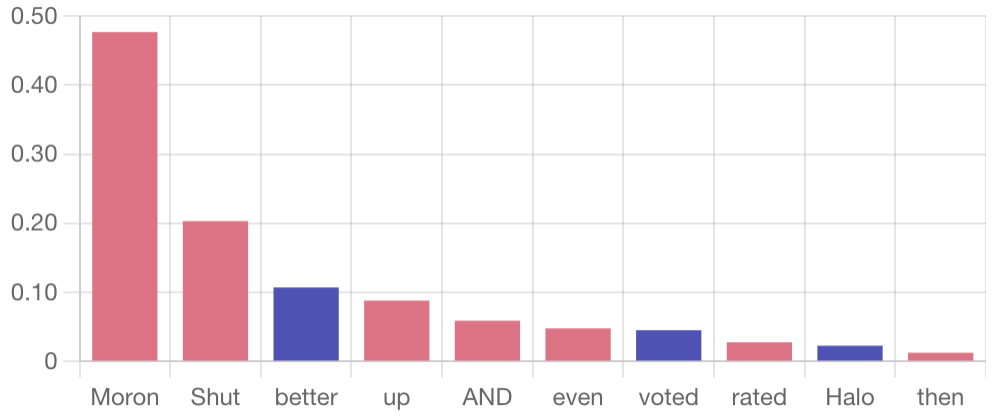
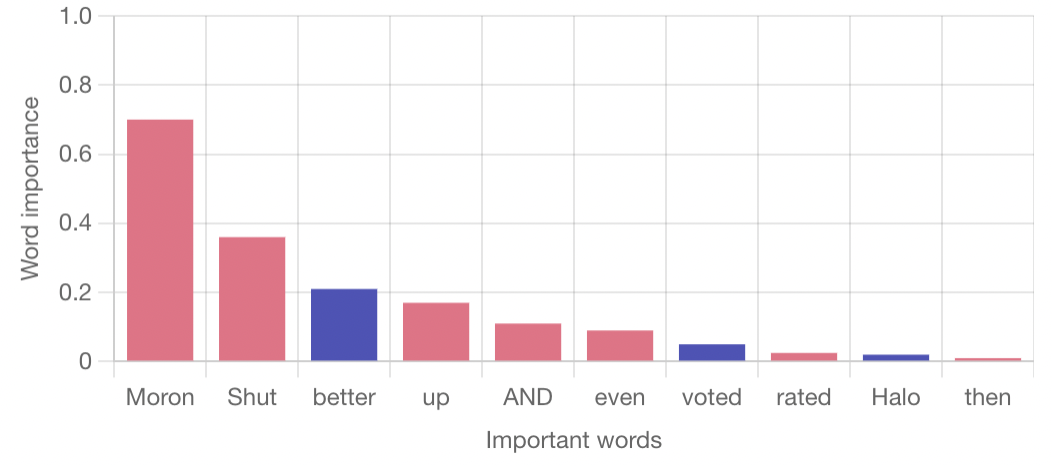
Imporved instructions throughout prototype

diff --git a/frontend/src/pages/TaskIntroduction.js b/frontend/src/pages/TaskIntroduction.js
@@ -17,7 +17,7 @@ import PageContext from "../context/PageContext";
 import TaskInterfaceImage from "../assets/images/task_interface.png";
 
 const TaskIntroduction = () => {
-  const { page, setPage } = useContext(PageContext);
+  const { setPage } = useContext(PageContext);
 
   return (
     <>
@@ -34,10 +34,10 @@ const TaskIntroduction = () => {
           <h5>Task:</h5>
           <p>
             You have been asked to review the flagged comments to check if the
-            AI system is correctly classifying each comment. Each comment has an
-            explanation of the prediction alongside the prediction which can be
-            used to help you understand why a comment has been flagged as
-            "Toxic" or "Non-toxic".
+            AI system is classifying each comment correctly. Each comment has an
+            explanation of the prediction alongside the prediction results
+            itself which can be used to help you understand why a comment has
+            been flagged as "Toxic" or "Non-toxic".
           </p>
           <p>
             You should check that each comment has been labelled correctly and
@@ -66,12 +66,87 @@ const TaskIntroduction = () => {
               marginRight: "auto",
             }}
           />
+          <h6>Steps on using task interface:</h6>
+          <div>
+            <ol>
+              <li>
+                You will first require to select a comment from the scrollable
+                list on the left hand side of the screen <strong>(1)</strong>.
+                The list displays the comment number, the first five words of
+                the comment, the comments checked status and the predicted label
+                of the comment. By default when you start the task, the first
+                comment in the list will be selected.
+              </li>
+              <br />
+              <li>
+                Once the comment has been selected you will be presented a
+                dashboard overview for the specific comment. This dashboard will
+                include the full comment <strong>(2)</strong>, a barchart
+                displaying the top-10 most important words to the prediction{" "}
+                <strong>(3)</strong>, the overall prediction label for the
+                comment <strong>(7)</strong> and a dropdown box which you can
+                you to change the prediction label <strong>(8)</strong>, and a
+                list of the top-10 most important words to the prediction{" "}
+                <strong>(9)</strong> (the same words displayed in the barchart)
+                and the ability to change the label associated to the word and
+                the word importance weight (a higher word weight indicates a
+                word is more important to final prediction in the AI system).
+              </li>
+              <br />
+              <li>
+                You should check if the comment prediction and explanation is
+                accurate. Make any changes to the default values if you believe
+                they are not correct or haven't been represented well by the AI
+                system.
+                <br />
+                <br />
+                For example, if you think the comment should be labelled as
+                "Non-toxic" and not "Toxic", use the dropdown box{" "}
+                <strong>(8)</strong> to change the comment label to "Non-toxic".
+                <br />
+                <br />
+                Another example is, if you think one of the important words has
+                been associated with the wrong label (Toxic/Non-toxic) and
+                should have been less important to the final decision in the AI
+                system, first change the dropdown box <strong>(9)</strong> for
+                the associated important word to the other label and change the
+                slider <strong>(9)</strong> to a lower importance.
+                <br />
+                <br />
+                You can make as many changes are you feel are necessary. If you
+                feel the AI system is completely wrong thats completely fine.
+              </li>
+              <br />
+              <li>
+                Once your happy with all your changes, press the "Checked
+                comment" button <strong>(5)</strong>. This will automatically
+                take you to the next comment in the list, however, you can still
+                change the comment you would like to review using the scrollable
+                list <strong>(1)</strong>. Only after you pressed "Checked
+                comment" will any changes be saved. This includes if you want to
+                make additional changes later to an already "Checked" comment.
+                <br />
+                <br />
+                If you make any mistake or just rather reset all your changes
+                you have made, press the "Reset comment" button{" "}
+                <strong>(4)</strong>. This will also change the status of the
+                comment to "Unchecked" if you have already checked the comment.
+              </li>
+            </ol>
+            <strong>
+              You can reopen the task-interface diagram and the instructions
+              above anytime while completing the task by pressing the key{" "}
+              <i>"I"</i> on your keyboard.
+            </strong>
+          </div>
         </Row>
+        <br />
+
         <Row>
           <h5>Next steps:</h5>
           <p>
             You will be initially asked to complete a practice task. This will
-            being used as an attention check and allows yourself to get used to
+            be used as an attention check and allows yourself to get used to
             using the task interface.
           </p>
           <p>
@@ -90,7 +165,7 @@ const TaskIntroduction = () => {
             Please do not refresh your browser while completing the study and
             until you get redirected back to Prolific. If you do refresh your
             browser, data collected will be lost and you will be taken back to
-            the start of study.
+            the start of the study.
           </p>
         </Row>
         <Button

diff --git a/frontend/src/components/post_task_questions/ActualUnderstanding.js b/frontend/src/components/post_task_questions/ActualUnderstanding.js
@@ -64,7 +64,7 @@ const ActualUnderstanding = () => {
   };
 
   const actualunderstanding5 = {
-    question: `13. You believe "AND" has been marked as too important and you feel it shouldn't be part of the AI systems, what position will you move the slider too?`,
+    question: `13. You believe "Shut" has been marked as too important and you feel it shouldn't be part of the AI systems, what position will you move the slider too?`,
     id: "actualunderstanding5",
     responses: [
       { value: "a", text: "a.", image: Slider0 },

diff --git a/frontend/src/pages/PracticeTask.js b/frontend/src/pages/PracticeTask.js
@@ -2,12 +2,14 @@
 import TabGroup from "../components/TabGroup";
 import TitleNav from "../components/TitleNav";
 import ModalPracticeTaskIntroduction from "../components/ModalPracticeTaskIntroduction";
+import ModalPrototypeInstructions from "../components/ModalPrototypeInstructions";
 
 const PracticeTask = () => {
   return (
     <>
       <TitleNav pageTitle={"Practice Task"} />
       <ModalPracticeTaskIntroduction />
+      <ModalPrototypeInstructions />
       <TabGroup />
     </>
   );

diff --git a/frontend/src/components/pre_task_questions/PreviousExperienceQuestion.js b/frontend/src/components/pre_task_questions/PreviousExperienceQuestion.js
@@ -66,7 +66,7 @@ const PreviousExperienceQuestion = () => {
   ];
   const prevExperience = {
     question:
-      "11.	How experienced are you with AI systems from 1 to 10. Use the table below to help you determine you level of expertise.",
+      "11.	How experienced are you with AI systems from 1 to 10. Use the table below to help you determine your level of expertise.",
     responses: responses,
     layout: "stacked",
     onChange: (val) => {

diff --git a/frontend/src/components/BarChart.js b/frontend/src/components/BarChart.js
@@ -38,7 +38,7 @@ const options = {
     y: {
       stacked: true,
       title: {
-        text: "Word weight",
+        text: "Word importance",
         display: true,
       },
       suggestedMin: 0.0,
